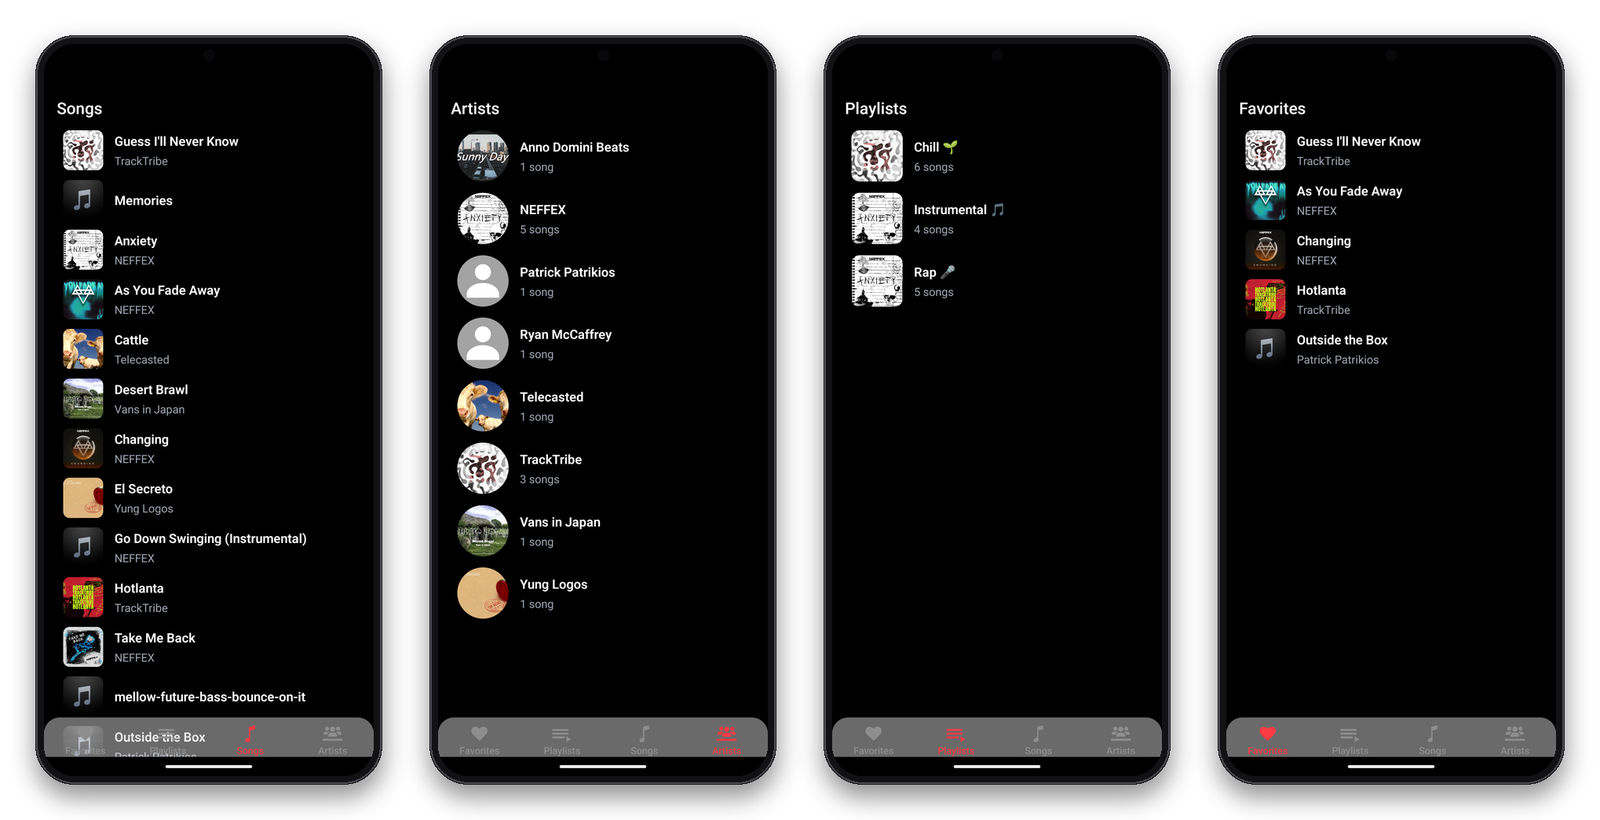
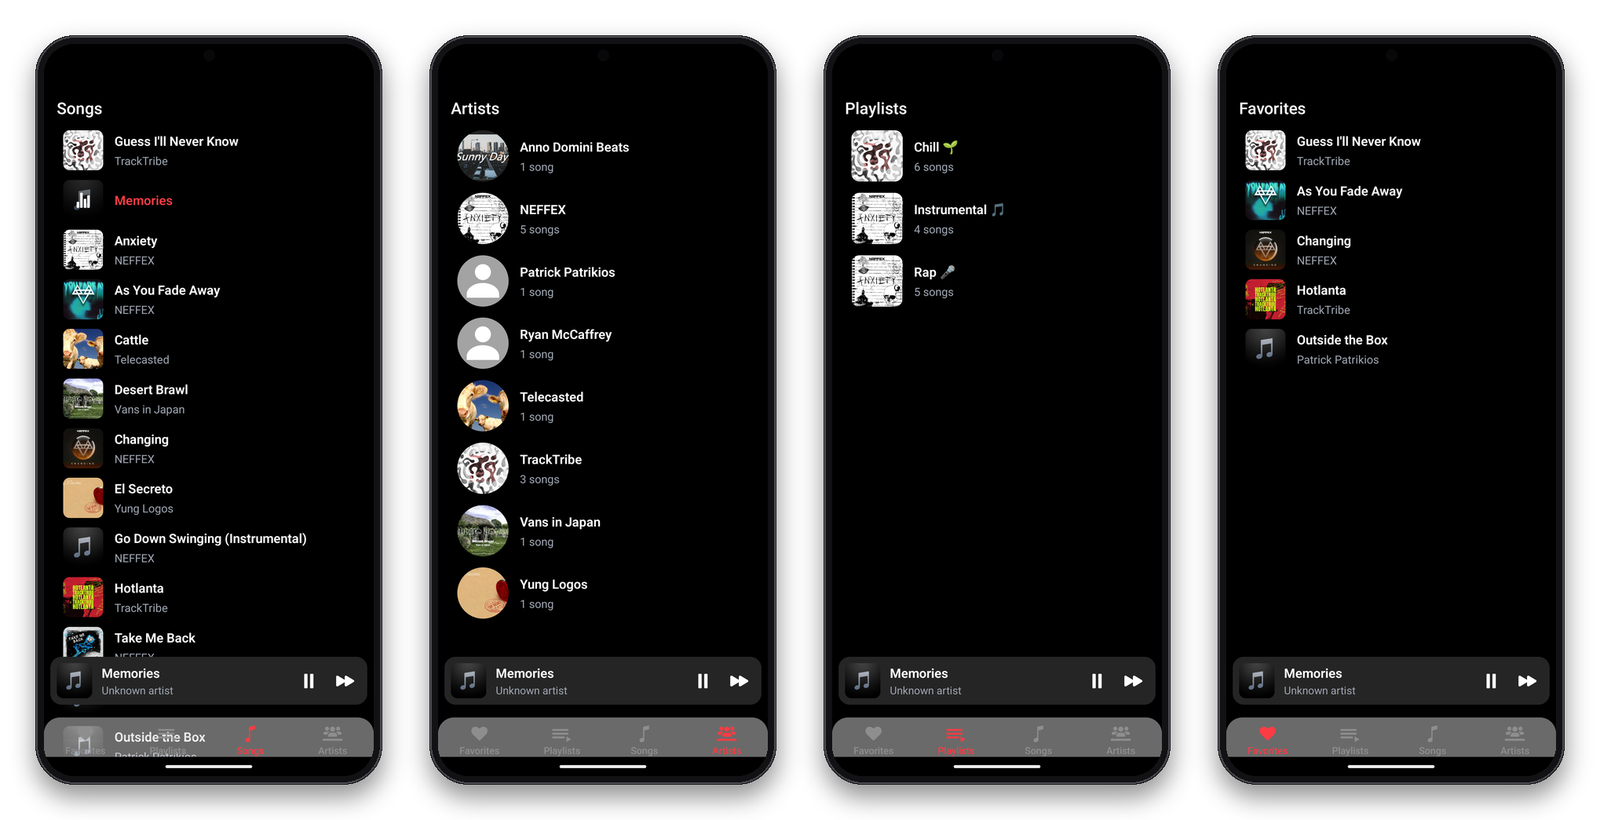
feat: audio playback with a floating mini player
Streams tracks with expo-av: play a list from any song, pause/resume, skip and auto-advance. A mini player above the tab bar shows the current track and the playing song is highlighted in every list.

diff --git a/src/providers/PlayerProvider.tsx b/src/providers/PlayerProvider.tsx
@@ -1,0 +1,114 @@
+import { Audio, AVPlaybackStatus } from 'expo-av'
+import {
+	createContext,
+	PropsWithChildren,
+	useCallback,
+	useContext,
+	useEffect,
+	useMemo,
+	useRef,
+	useState,
+} from 'react'
+import { Track } from '@/helpers/library'
+
+type PlayerState = {
+	queue: Track[]
+	index: number
+	activeTrack?: Track
+	isPlaying: boolean
+	isLoading: boolean
+	error?: string
+	playQueue: (tracks: Track[], startIndex: number) => Promise<void>
+	togglePlay: () => Promise<void>
+	skipToNext: () => Promise<void>
+	skipToPrevious: () => Promise<void>
+}
+
+const PlayerContext = createContext<PlayerState | null>(null)
+
+/** Streams tracks with expo-av and keeps a simple play queue. */
+export const PlayerProvider = ({ children }: PropsWithChildren) => {
+	const sound = useRef<Audio.Sound | null>(null)
+	const [queue, setQueue] = useState<Track[]>([])
+	const [index, setIndex] = useState(-1)
+	const [isPlaying, setIsPlaying] = useState(false)
+	const [isLoading, setIsLoading] = useState(false)
+	const [error, setError] = useState<string>()
+	const advance = useRef<() => void>(() => {})
+
+	useEffect(() => {
+		Audio.setAudioModeAsync({ playsInSilentModeIOS: true, shouldDuckAndroid: true }).catch(() => {})
+		return () => {
+			sound.current?.unloadAsync()
+		}
+	}, [])
+
+	const load = useCallback(async (tracks: Track[], position: number) => {
+		const track = tracks[position]
+		if (!track) return
+		setQueue(tracks)
+		setIndex(position)
+		setIsLoading(true)
+		setError(undefined)
+		try {
+			await sound.current?.unloadAsync()
+			const { sound: next } = await Audio.Sound.createAsync(
+				{ uri: track.url },
+				{ shouldPlay: true },
+				(status: AVPlaybackStatus) => {
+					if (!status.isLoaded) return
+					setIsPlaying(status.isPlaying)
+					if (status.didJustFinish) advance.current()
+				},
+			)
+			sound.current = next
+		} catch {
+			setError('This track could not be played.')
+			setIsPlaying(false)
+		} finally {
+			setIsLoading(false)
+		}
+	}, [])
+
+	const skipToNext = useCallback(async () => {
+		if (index < queue.length - 1) await load(queue, index + 1)
+	}, [index, queue, load])
+
+	const skipToPrevious = useCallback(async () => {
+		if (index > 0) await load(queue, index - 1)
+	}, [index, queue, load])
+
+	advance.current = () => {
+		skipToNext()
+	}
+
+	const togglePlay = useCallback(async () => {
+		if (!sound.current) return
+		if (isPlaying) await sound.current.pauseAsync()
+		else await sound.current.playAsync()
+	}, [isPlaying])
+
+	const value = useMemo<PlayerState>(
+		() => ({
+			queue,
+			index,
+			activeTrack: queue[index],
+			isPlaying,
+			isLoading,
+			error,
+			playQueue: load,
+			togglePlay,
+			skipToNext,
+			skipToPrevious,
+		}),
+		[queue, index, isPlaying, isLoading, error, load, togglePlay, skipToNext, skipToPrevious],
+	)
+
+	return <PlayerContext.Provider value={value}>{children}</PlayerContext.Provider>
+}
+
+export const usePlayer = () => {
+	const context = useContext(PlayerContext)
+	if (!context) throw new Error('usePlayer must be used inside PlayerProvider')
+	return context
+}

diff --git a/src/components/FloatingPlayer.tsx b/src/components/FloatingPlayer.tsx
@@ -1,0 +1,75 @@
+import { Ionicons } from '@expo/vector-icons'
+import { ActivityIndicator, StyleSheet, Text, TouchableOpacity, View } from 'react-native'
+import { colors, fontSize } from '@/constants/tokens'
+import { unknownTrackImageUri } from '@/constants/images'
+import { usePlayer } from '@/providers/PlayerProvider'
+import { Artwork } from './Artwork'
+
+/** Mini player shown above the tab bar while a track is loaded. */
+export const FloatingPlayer = ({ bottom }: { bottom: number }) => {
+	const { activeTrack, isPlaying, isLoading, error, togglePlay, skipToNext, index, queue } =
+		usePlayer()
+	if (!activeTrack) return null
+
+	return (
+		<View style={[styles.container, { bottom }]}>
+			<Artwork
+				uri={activeTrack.artwork}
+				fallbackUri={unknownTrackImageUri}
+				style={styles.artwork}
+			/>
+			<View style={styles.texts}>
+				<Text numberOfLines={1} style={styles.title}>
+					{activeTrack.title}
+				</Text>
+				<Text numberOfLines={1} style={[styles.subtitle, error ? styles.error : null]}>
+					{error ?? activeTrack.artist ?? 'Unknown artist'}
+				</Text>
+			</View>
+			{isLoading ? (
+				<ActivityIndicator color={colors.text} style={styles.button} />
+			) : (
+				<TouchableOpacity
+					accessibilityLabel={isPlaying ? 'Pause' : 'Play'}
+					onPress={togglePlay}
+					style={styles.button}
+				>
+					<Ionicons name={isPlaying ? 'pause' : 'play'} size={26} color={colors.text} />
+				</TouchableOpacity>
+			)}
+			<TouchableOpacity
+				accessibilityLabel="Next track"
+				onPress={skipToNext}
+				disabled={index >= queue.length - 1}
+				style={styles.button}
+			>
+				<Ionicons
+					name="play-forward"
+					size={24}
+					color={index >= queue.length - 1 ? colors.textMuted : colors.text}
+				/>
+			</TouchableOpacity>
+		</View>
+	)
+}
+
+const styles = StyleSheet.create({
+	container: {
+		position: 'absolute',
+		left: 8,
+		right: 8,
+		flexDirection: 'row',
+		alignItems: 'center',
+		padding: 8,
+		paddingRight: 12,
+		borderRadius: 14,
+		backgroundColor: '#252525',
+		columnGap: 12,
+	},
+	artwork: { width: 44, height: 44, borderRadius: 8 },
+	texts: { flex: 1 },
+	title: { color: colors.text, fontSize: fontSize.sm, fontWeight: '600' },
+	subtitle: { color: colors.textMuted, fontSize: 13, marginTop: 2 },
+	error: { color: colors.primary },
+	button: { padding: 4 },
+})

diff --git a/src/components/TrackListItem.tsx b/src/components/TrackListItem.tsx
@@ -2,16 +2,20 @@ import { unknownTrackImageUri } from '@/constants/images'
 import { colors, fontSize } from '@/constants/tokens'
 import { defaultStyles } from '@/styles'
 import { TouchableHighlight, View, StyleSheet, Text } from 'react-native'
+import { Ionicons } from '@expo/vector-icons'
 import { Artwork } from './Artwork'
 
 export type TrackListItemProps = {
 	track: { title: string; image?: string; artist?: string }
+	isActive?: boolean
+	isPlaying?: boolean
+	onPress?: () => void
 }
 
-export const TrackListItem = ({ track }: TrackListItemProps) => {
-	const isActiveTrack = false
+export const TrackListItem = ({ track, isActive = false, isPlaying = false, onPress }: TrackListItemProps) => {
+	const isActiveTrack = isActive
 	return (
-		<TouchableHighlight>
+		<TouchableHighlight onPress={onPress} underlayColor="rgba(255,255,255,0.06)">
 			<View style={styles.trackItemContainer}>
 				<View>
 					<Artwork
@@ -22,6 +26,14 @@ export const TrackListItem = ({ track }: TrackListItemProps) => {
 							opacity: isActiveTrack ? 0.6 : 1,
 						}}
 					/>
+					{isActiveTrack && (
+						<Ionicons
+							name={isPlaying ? 'stats-chart' : 'play'}
+							size={20}
+							color={colors.text}
+							style={styles.activeIcon}
+						/>
+					)}
 				</View>
 				<View style={{ width: '100%' }}>
 					<Text
@@ -56,6 +68,11 @@ const styles = StyleSheet.create({
 		borderRadius: 8,
 		width: 50,
 		height: 50,
+	},
+	activeIcon: {
+		position: 'absolute',
+		top: 15,
+		left: 15,
 	},
 	trackTitletext: {
 		...defaultStyles.text,

diff --git a/src/components/TracksList.tsx b/src/components/TracksList.tsx
@@ -1,6 +1,7 @@
 import { FlatList, FlatListProps, View } from 'react-native'
 import { Track, tracks as allTracks } from '@/helpers/library'
 import { screenPadding } from '@/constants/tokens'
+import { usePlayer } from '@/providers/PlayerProvider'
 import { TrackListItem } from './TrackListItem'
 import { EmptyState } from './EmptyState'
 
@@ -9,14 +10,22 @@ export type TracksListProps = Partial<FlatListProps<Track>> & {
 }
 
 export const TracksList = ({ tracks = allTracks, ...flatlistProps }: TracksListProps) => {
+	const { activeTrack, isPlaying, playQueue } = usePlayer()
 	return (
 		<FlatList
 			data={tracks}
 			keyExtractor={(track) => track.url}
-			contentContainerStyle={{ paddingHorizontal: screenPadding.horizontal, paddingBottom: 128 }}
+			contentContainerStyle={{ paddingHorizontal: screenPadding.horizontal, paddingBottom: 200 }}
 			ItemSeparatorComponent={() => <View style={{ height: 12 }} />}
 			ListEmptyComponent={<EmptyState icon="musical-notes-outline" message="No songs here yet" />}
-			renderItem={({ item: track }) => <TrackListItem track={{ ...track, image: track.artwork }} />}
+			renderItem={({ item: track, index }) => (
+				<TrackListItem
+					track={{ ...track, image: track.artwork }}
+					isActive={activeTrack?.url === track.url}
+					isPlaying={isPlaying}
+					onPress={() => playQueue(tracks, index)}
+				/>
+			)}
 			{...flatlistProps}
 		/>
 	)

diff --git a/src/app/(tabs)/_layout.tsx b/src/app/(tabs)/_layout.tsx
@@ -1,10 +1,25 @@
 import { colors, fontSize } from '@/constants/tokens'
 import { BlurView } from 'expo-blur'
 import { Tabs } from 'expo-router'
-import { StyleSheet } from 'react-native'
+import { StyleSheet, View } from 'react-native'
 import { FontAwesome, MaterialCommunityIcons, Ionicons, FontAwesome6 } from '@expo/vector-icons'
+import { useSafeAreaInsets } from 'react-native-safe-area-context'
+import { FloatingPlayer } from '@/components/FloatingPlayer'
+
+// Height of the tab bar content above the bottom safe area (default 49 + paddingTop 8).
+const TAB_BAR_HEIGHT = 57
 
 const TabsNavigation = () => {
+	const { bottom } = useSafeAreaInsets()
+	return (
+		<View style={{ flex: 1 }}>
+			<TabsBar />
+			<FloatingPlayer bottom={TAB_BAR_HEIGHT + bottom + 8} />
+		</View>
+	)
+}
+
+const TabsBar = () => {
 	return (
 		<Tabs
 			screenOptions={{
@@ -45,7 +60,9 @@ const TabsNavigation = () => {
 				name="playlists"
 				options={{
 					title: 'Playlists',
-					tabBarIcon: ({ color }) => <MaterialCommunityIcons name="playlist-play" size={28} color={color} />,
+					tabBarIcon: ({ color }) => (
+						<MaterialCommunityIcons name="playlist-play" size={28} color={color} />
+					),
 				}}
 			/>
 			<Tabs.Screen

diff --git a/src/app/_layout.tsx b/src/app/_layout.tsx
@@ -1,12 +1,15 @@
 import { Stack } from 'expo-router'
 import { StatusBar } from 'expo-status-bar'
 import { SafeAreaProvider } from 'react-native-safe-area-context'
+import { PlayerProvider } from '@/providers/PlayerProvider'
 
 const App = () => {
 	return (
 		<SafeAreaProvider>
-			<RootNavigation />
-			<StatusBar style="light" />
+			<PlayerProvider>
+				<RootNavigation />
+				<StatusBar style="light" />
+			</PlayerProvider>
 		</SafeAreaProvider>
 	)
 }

diff --git a/README.md b/README.md
@@ -1,29 +1,28 @@
 # MusicPlayer 🎵
 
-Mobile music player built with **React Native**, **Expo** and **Expo Router**.
-The app is organized in tabs — **Songs**, **Artists**, **Playlists** and **Favorites** — with a
-reusable track list and a shared design-token system for colors, spacing and typography.
+Mobile music player built with **React Native**, **Expo** and **Expo Router**. It streams the tracks of a local
+library and organises them in tabs — **Songs**, **Artists**, **Playlists** and **Favorites** — with a floating
+mini player that stays above the tab bar while you browse.
 
 ![React Native](https://img.shields.io/badge/React_Native-61DAFB?logo=react&logoColor=black)
 ![Expo](https://img.shields.io/badge/Expo-000020?logo=expo&logoColor=white)
 ![TypeScript](https://img.shields.io/badge/TypeScript-3178C6?logo=typescript&logoColor=white)
 
-<p align="center"><img src="docs/screenshots.png" alt="Songs, Artists, Playlists and Favorites tabs on Android" width="900"></p>
+<p align="center"><img src="docs/screenshots.png" alt="Songs with the mini player, Artists, Playlists and Favorites on Android" width="900"></p>
 
-## Status
+## Features
 
-| Area | Status |
-|---|---|
-| Tab navigation with nested stacks (Expo Router) | ✅ Done |
-| Songs, Artists, Playlists and Favorites built from the local library | ✅ Done |
-| Track list, grouped lists, artwork fallback and empty states | ✅ Done |
-| Design tokens and shared styles | ✅ Done |
-| Audio playback | 🚧 Planned |
+- **Playback** with `expo-av`: tap any song to play the list from there, pause/resume, skip to the next track and
+  automatic advance when a track ends. The playing track is highlighted in every list.
+- **Floating mini player** with artwork, title, artist and controls, shared across tabs through a React context.
+- **Artists and Playlists** grouped from the library, **Favorites** from the track rating.
+- Artwork fallback when a remote image fails to load, and empty states for lists without content.
+- Shared design tokens for colours, spacing and typography; strict TypeScript, ESLint and Prettier.
 
 ## Tech stack
 
 - React Native 0.74 · Expo SDK 51 · TypeScript
-- Expo Router (file-based navigation), `expo-image`, `expo-blur`
+- Expo Router (file-based navigation), `expo-av`, `expo-image`, `expo-blur`
 - ESLint + Prettier
 
 ## Project structure
@@ -31,9 +30,11 @@ reusable track list and a shared design-token system for colors, spacing and typ
 ```
 src/
 ├── app/
-│   └── (tabs)/       # songs, artists, playlists, favorites
-├── components/       # TracksList, TrackListItem
-├── constants/        # design tokens, images
+│   └── (tabs)/       # songs, artists, playlists, favorites + mini player
+├── components/       # TracksList, TrackListItem, GroupList, FloatingPlayer, Artwork, EmptyState
+├── providers/        # PlayerProvider (queue and playback state)
+├── helpers/          # Typed library, artist/playlist grouping
+├── constants/        # Design tokens, images
 └── styles/
 ```
 
@@ -43,6 +44,8 @@ src/
 npm install
 npx expo start
 ```
+
+Build an Android release locally with `cd android && ./gradlew assembleRelease`.
 
 ## License
 
